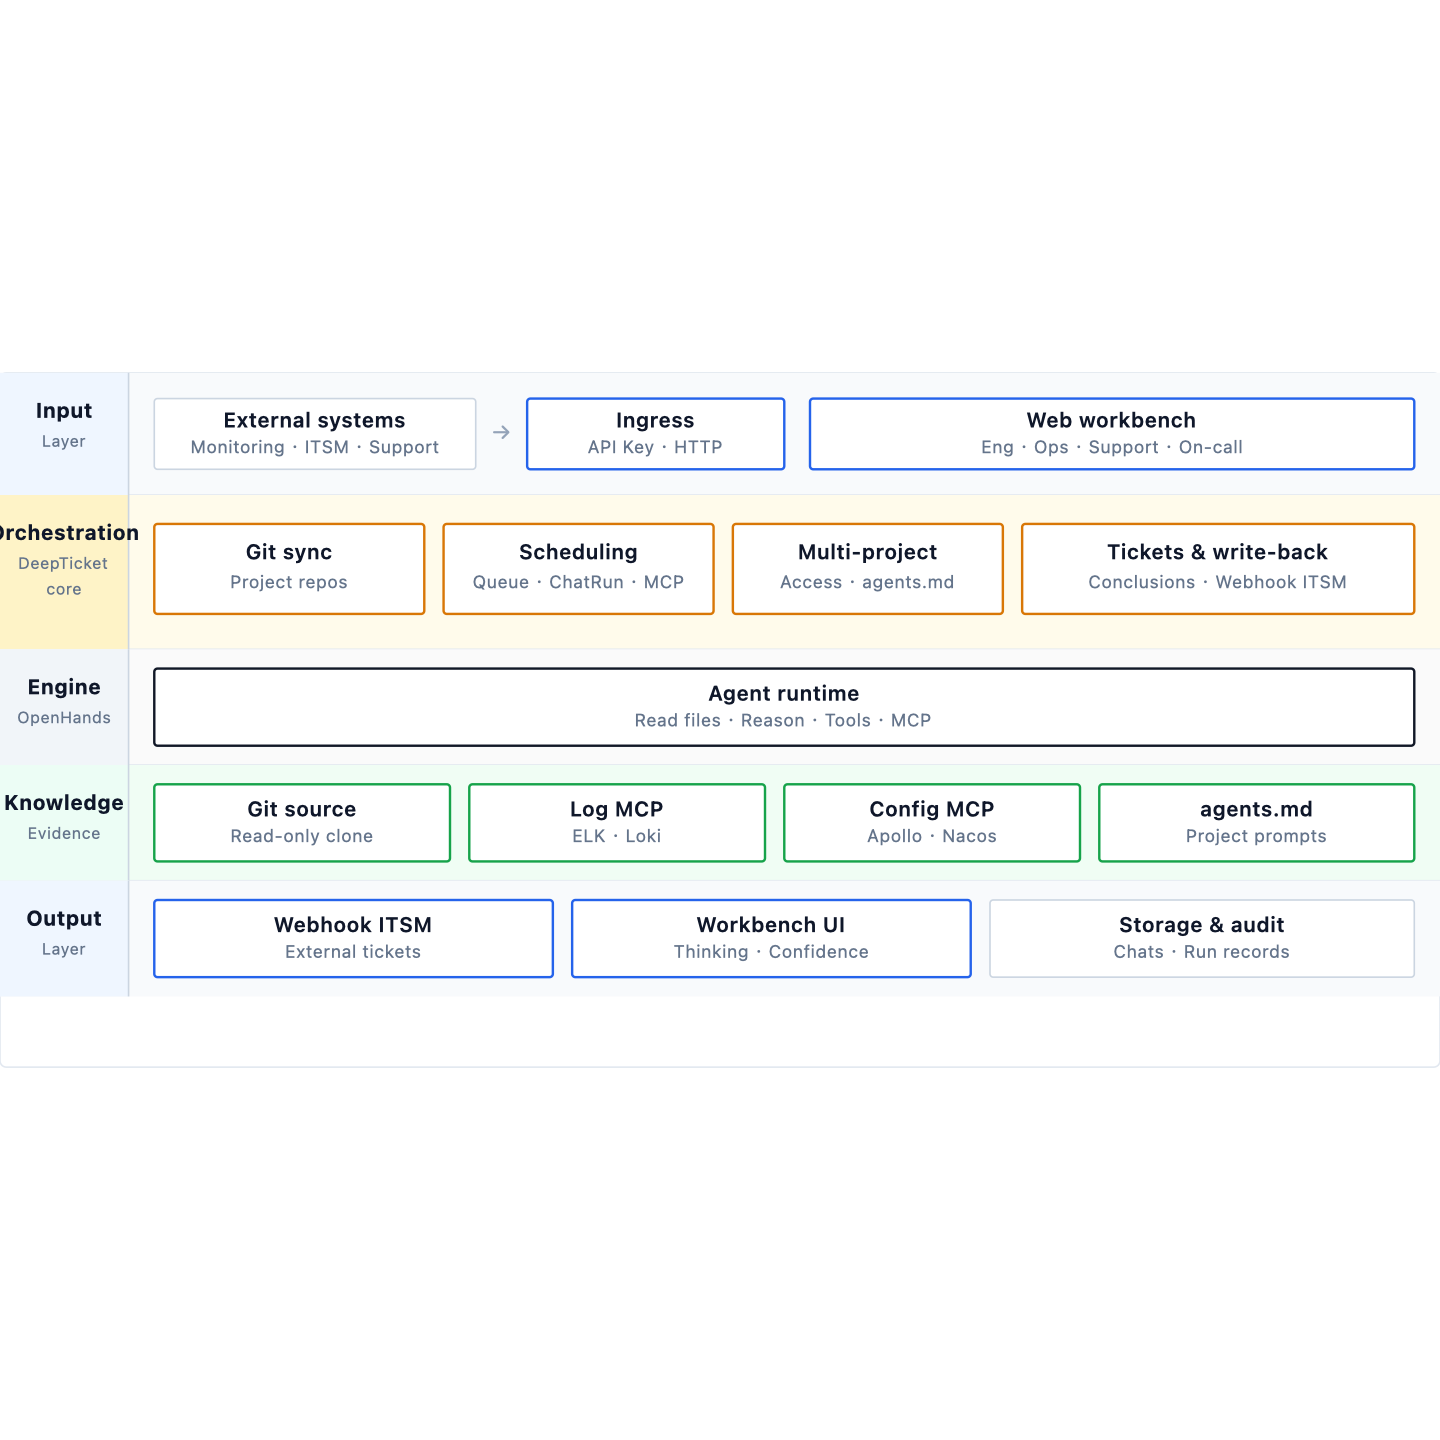
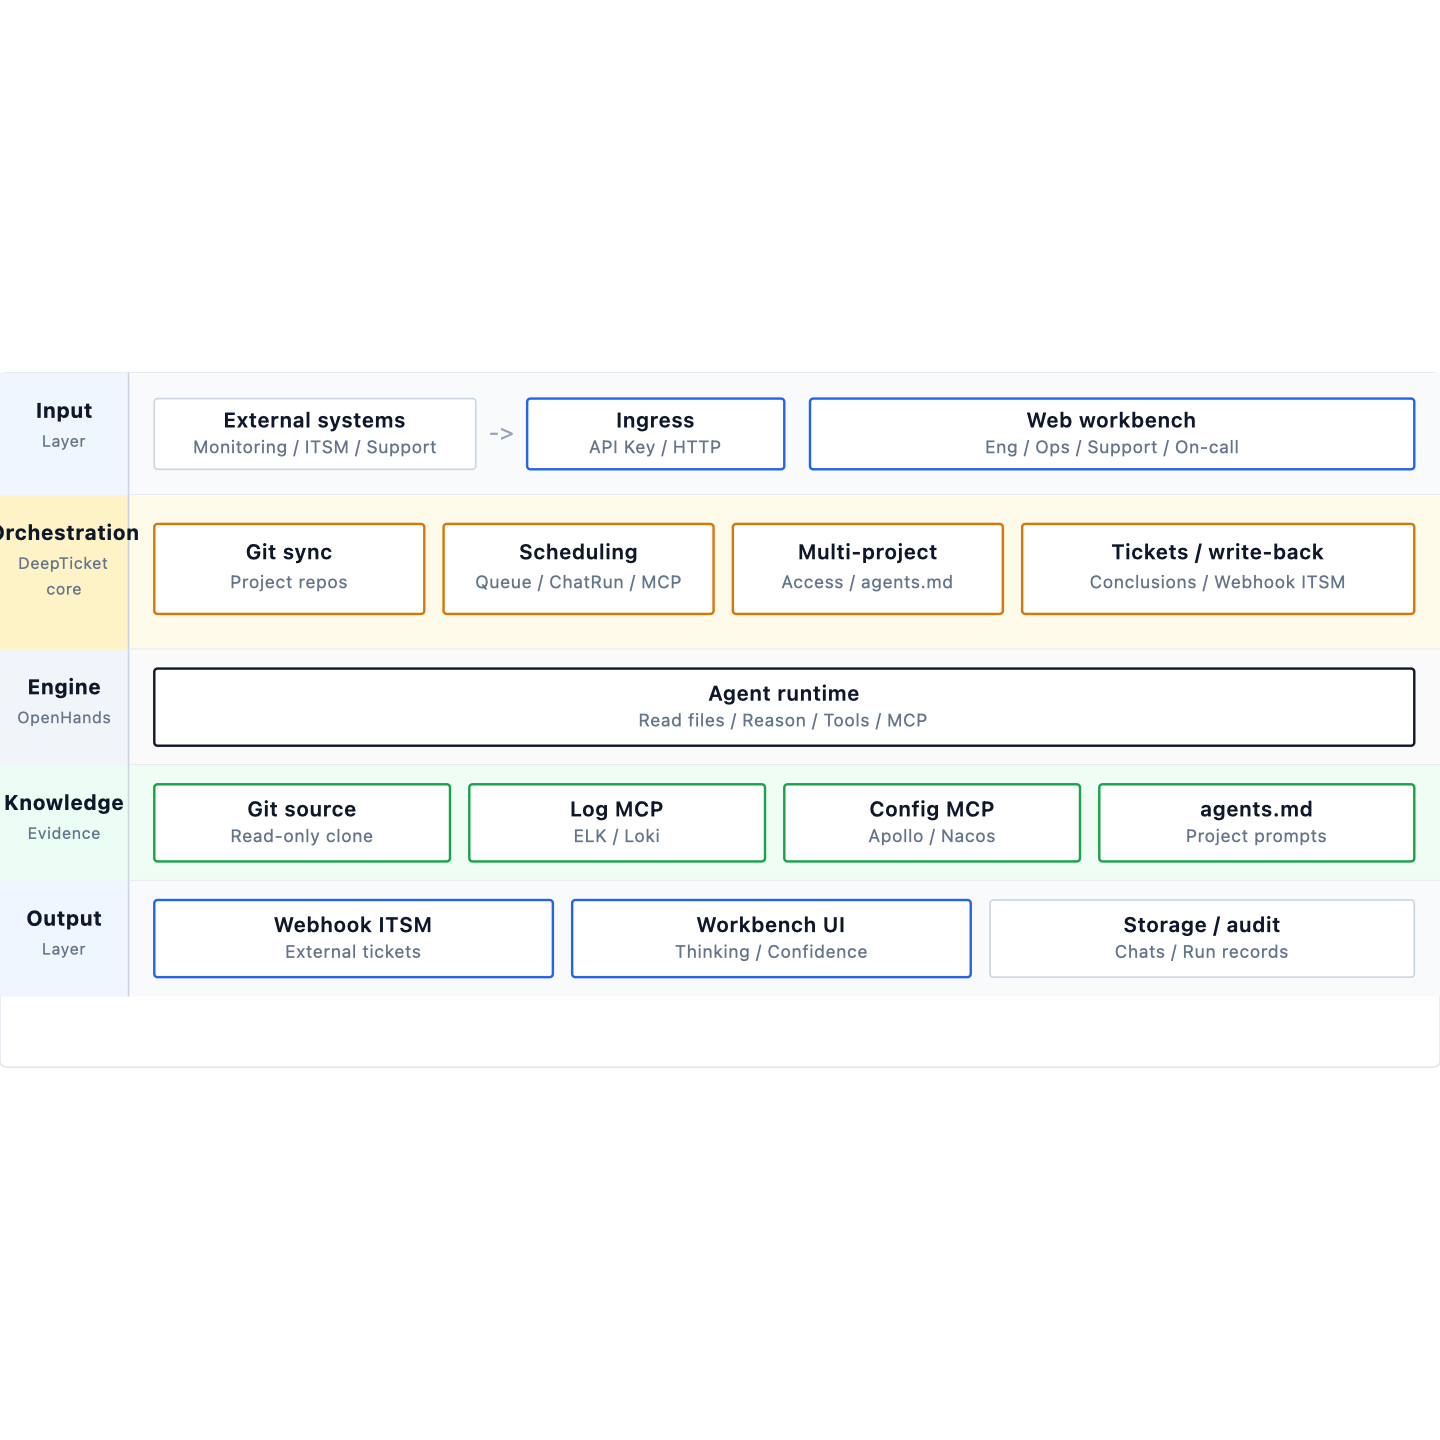
fix(docs): show architecture PNG only in README
Stop wrapping the README image in an SVG link so GitHub does not inline
parse the SVG, and use ASCII-only labels in architecture.en.svg.

diff --git a/README.md b/README.md
@@ -216,8 +216,9 @@ bash scripts/verify.sh              # local self-check
 ## Architecture
 
 <p align="center">
-  <a href="docs/assets/architecture.en.svg"><img src="docs/assets/architecture.en.png" width="720" alt="DeepTicket five-layer architecture"></a>
+  <img src="docs/assets/architecture.en.png" width="720" alt="DeepTicket five-layer architecture">
 </p>
+<p align="center"><sub>Vector source: <a href="docs/assets/architecture.en.svg">architecture.en.svg</a></sub></p>
 
 DeepTicket is split into input, knowledge, engine, output, and storage layers: input handles chat and Ingress; knowledge handles Git / Skill / MCP; OpenHands runs analysis; output handles streaming UI and Webhook write-back; storage holds chats, project config, and run records.
 
